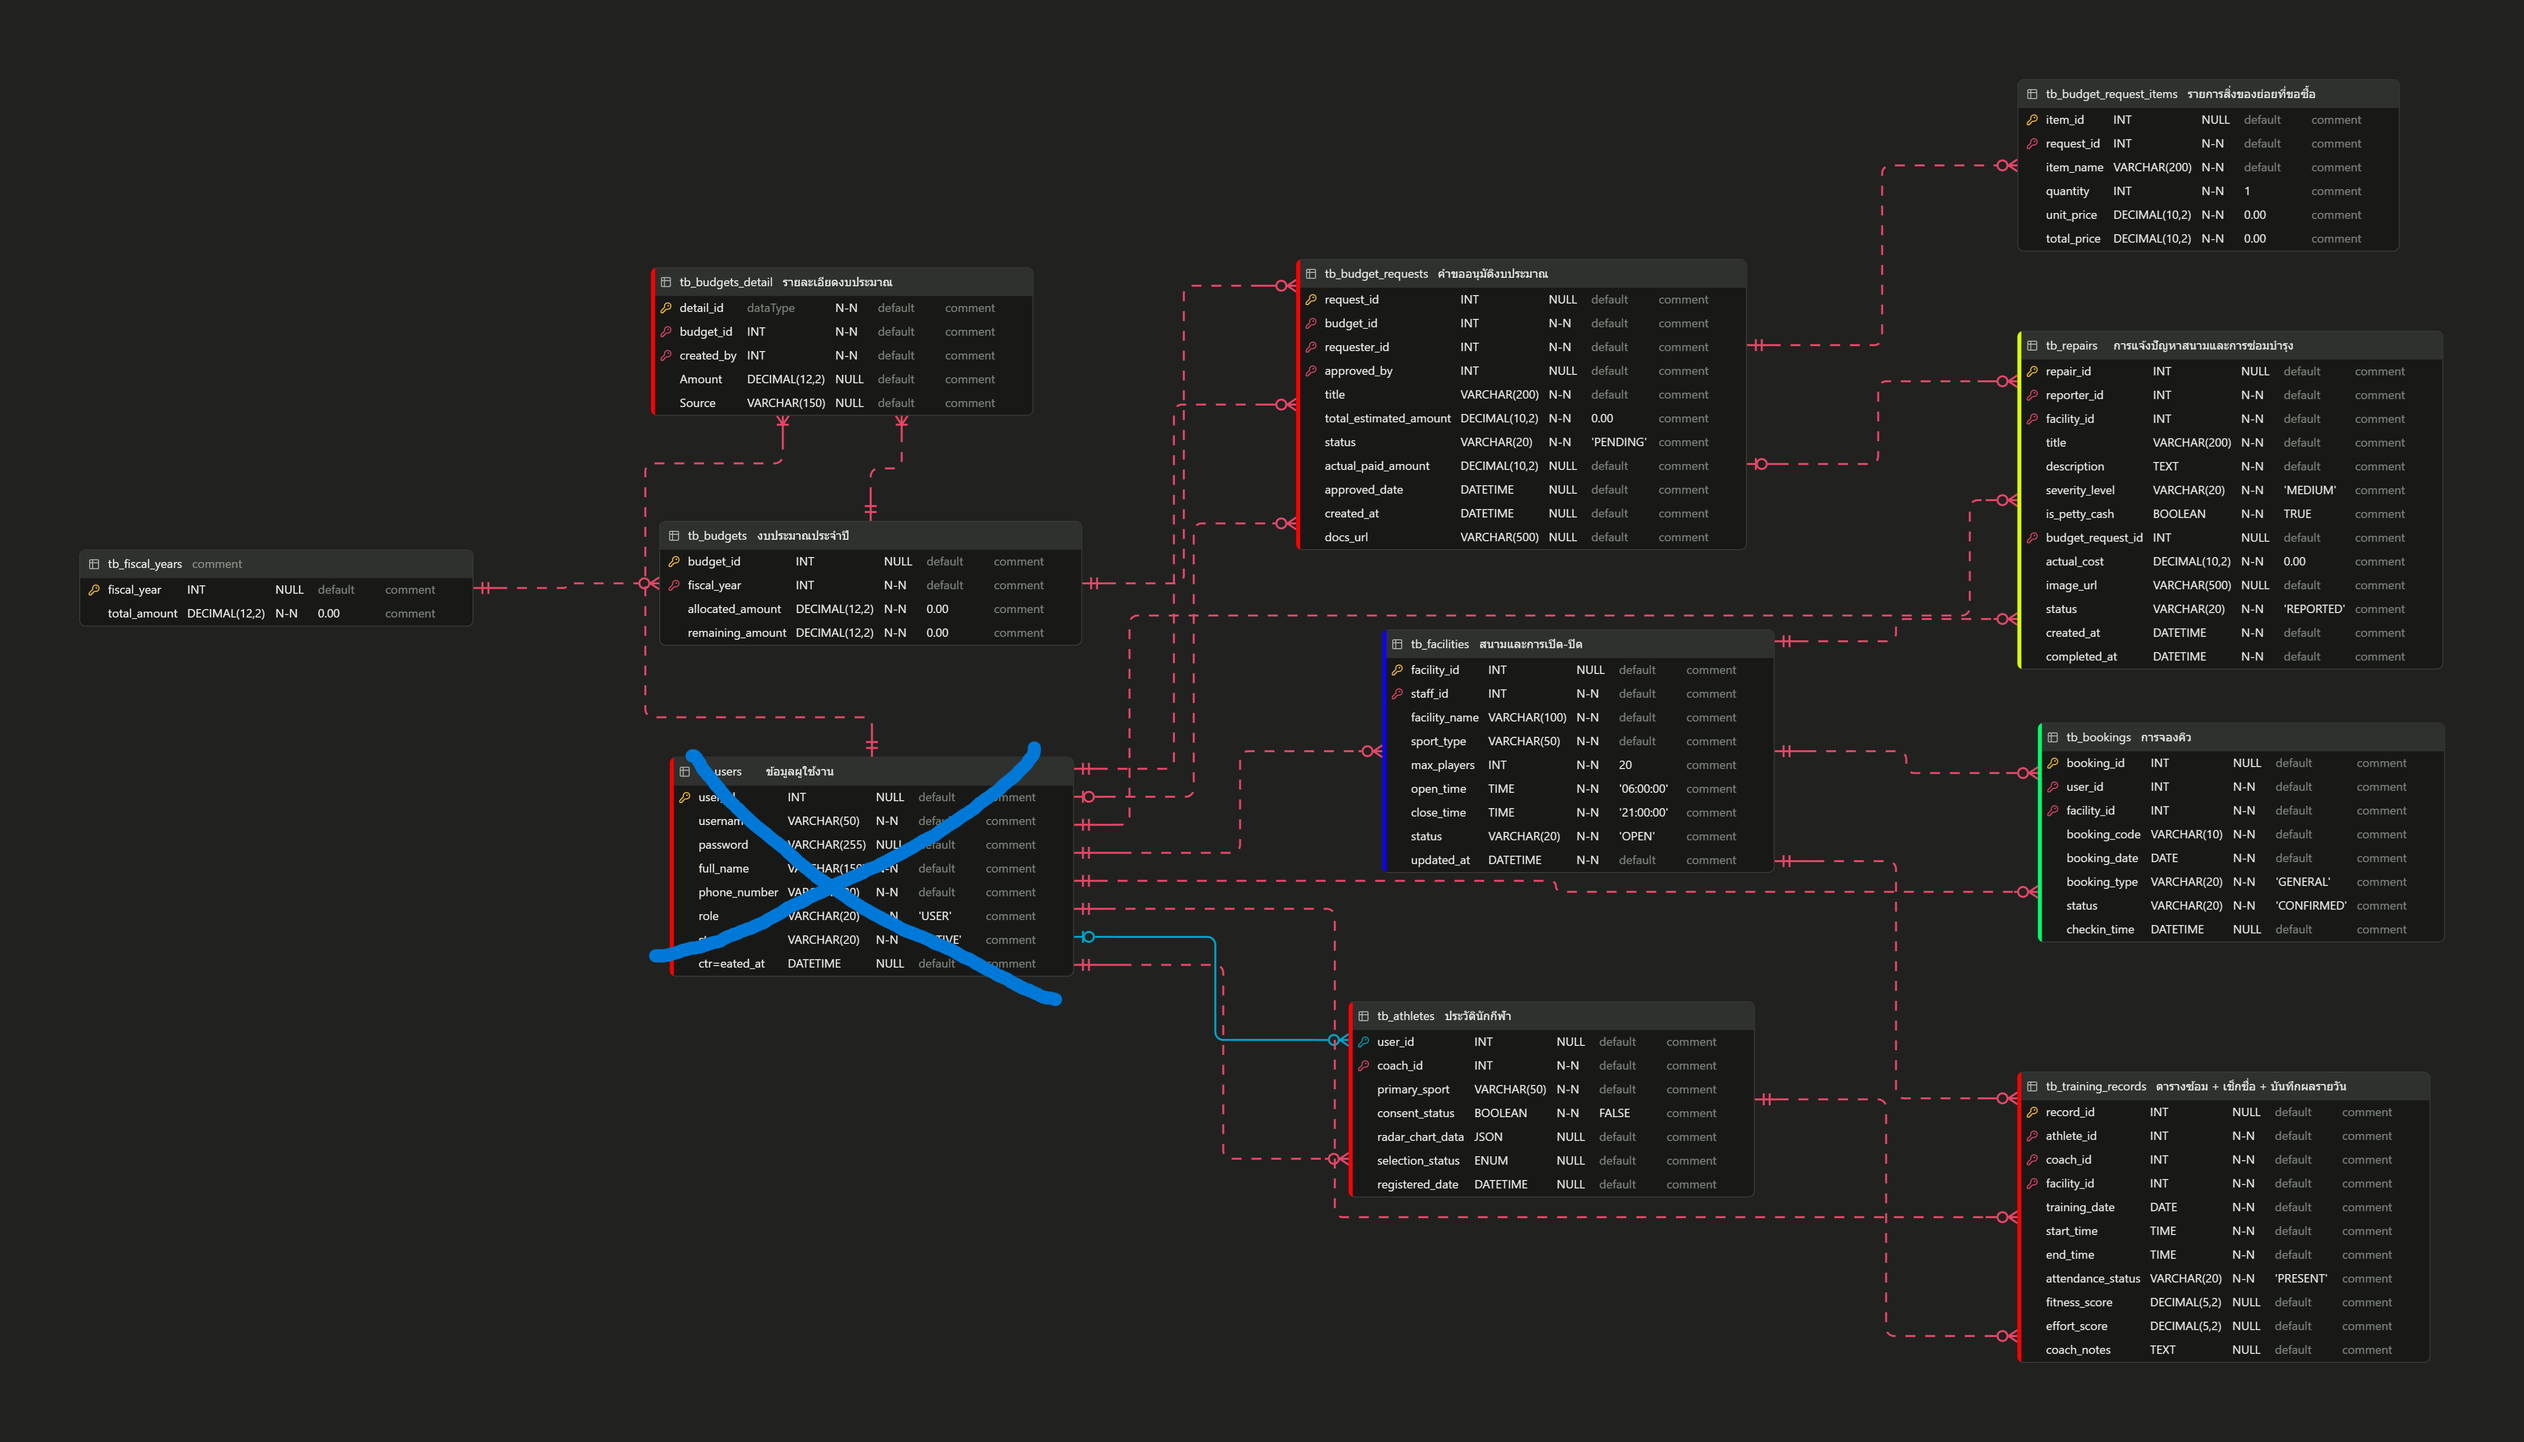
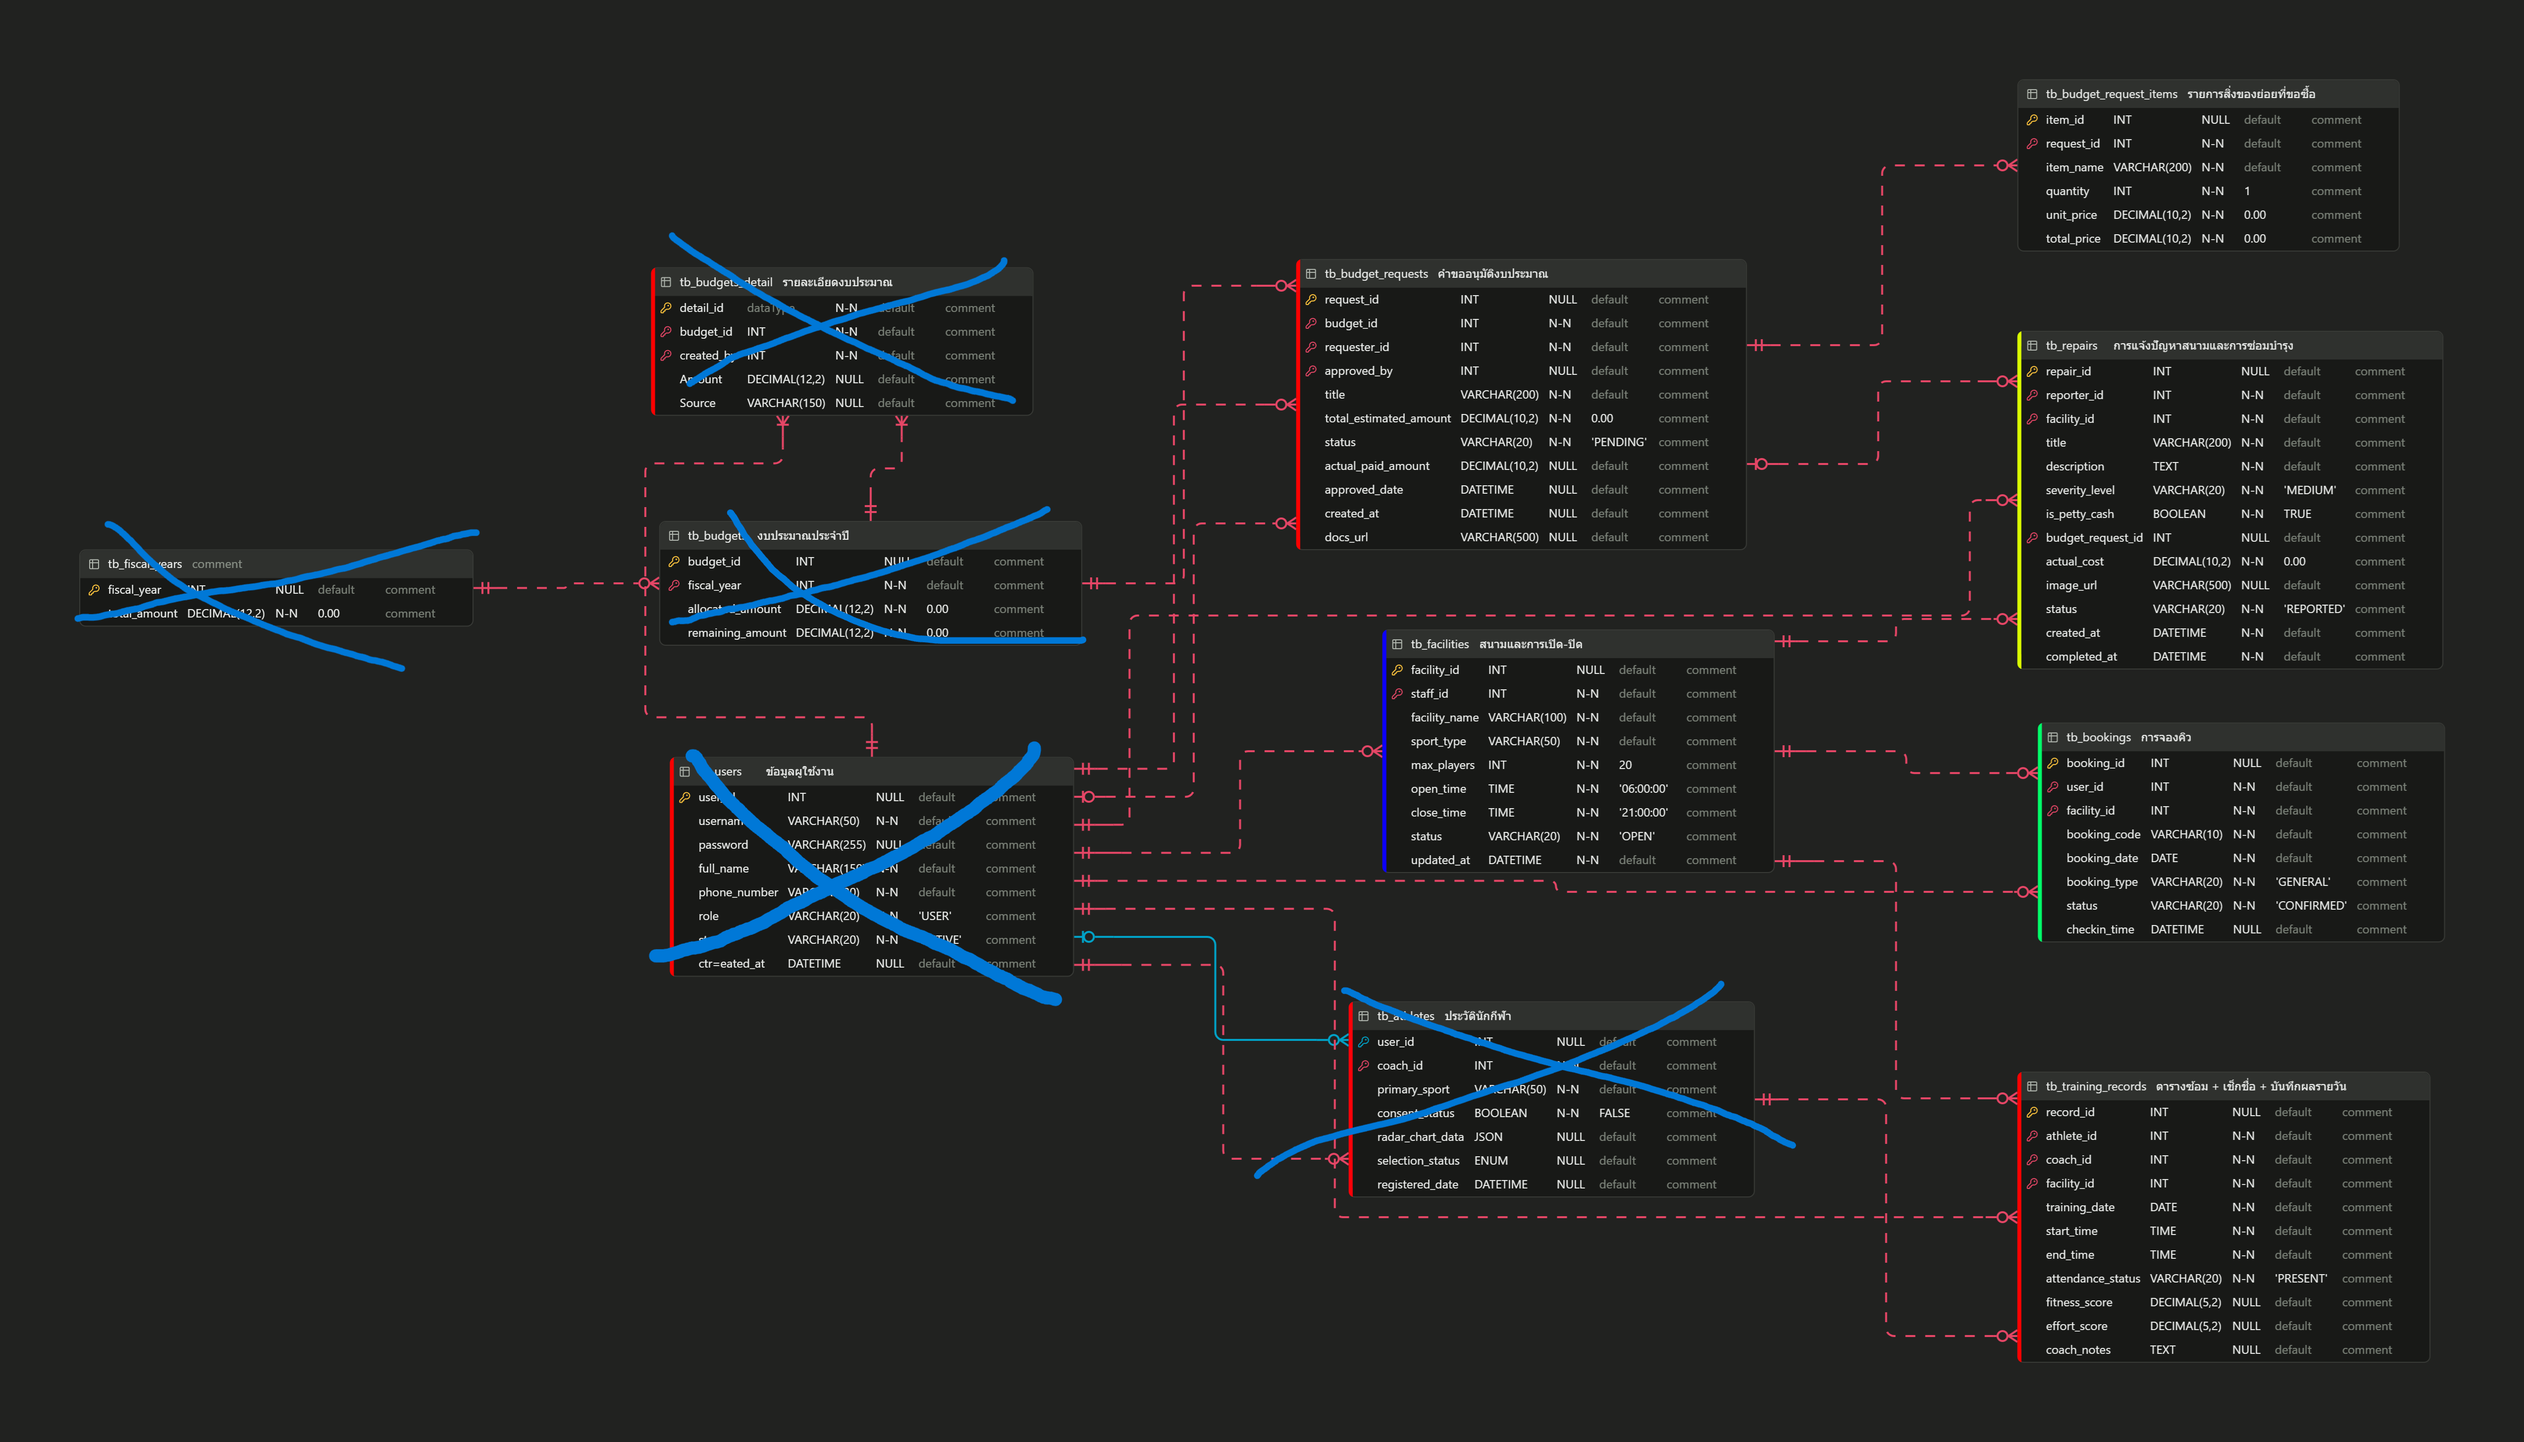
feat: add database schemas and types for athletes and budgets

diff --git a/db/schema/budgets.ts b/db/schema/budgets.ts
@@ -1,11 +1,34 @@
-import{mysqlTable,int} from "drizzle-orm/mysql-core";
+
+import { mysqlTable, int, varchar, decimal } from "drizzle-orm/mysql-core";
+import { tb_users } from "./users";
 
 
 
 
-export const tb_budgets = mysqlTable("tb_budgets",{
-    budget_id:int().primaryKey().autoincrement(),
-    allocated_amount:int().default(0),
-    remaining_amout:int().default(0),
-    
+export const tb_fiscal_years = mysqlTable("tb_fiscal_years", {
+    fiscal_id: int().primaryKey().autoincrement(),
+    years: varchar({ length: 4 })
+})
+
+
+export const tb_budgets = mysqlTable("tb_budgets", {
+    budget_id: int().primaryKey().autoincrement(),
+    fiscal_id: int().notNull().references(() => tb_fiscal_years.fiscal_id, {
+        onDelete: "cascade",
+        onUpdate: "cascade",
+    }),
+    allocated_amount: decimal({ precision: 12, scale: 2, mode: "number" }).default(0).notNull(),
+    remaining_amout: decimal({ precision: 12, scale: 2, mode: "number" }).default(0).notNull(),
+
+})
+
+
+export const tb_budgets_detail = mysqlTable("tb_budgets_detail", {
+    detail_id: int().primaryKey().autoincrement(),
+    budget_id: int().notNull().references(() => tb_budgets.budget_id, {
+        onDelete: "cascade"
+    }),
+    create_by: varchar({ length: 36 }).notNull().references(() => tb_users.user_id, { onDelete: "restrict" }),
+    Amount: decimal({ precision: 12, scale: 2, mode: "number" }).default(0).notNull(),
+    Source: varchar({ length: 255 }),
 })

diff --git a/db/schema/athletes.ts b/db/schema/athletes.ts
@@ -1,0 +1,14 @@
+import { mysqlTable ,varchar,json, boolean,timestamp} from "drizzle-orm/mysql-core";
+import { tb_users } from "./users";
+import{RadarChartData} from "@/types/athetes"
+
+
+export const tb_athletes = mysqlTable("tb_athletes",{
+    user_id:varchar({length:36}).notNull().references(()=>tb_users.user_id,{onDelete:"cascade"}),
+    coach_id:varchar({length:36}).notNull().references(()=>tb_users.user_id,{onDelete:"cascade"}),
+    primary_sport:varchar({length:(50)}).notNull(),
+    consent_status:boolean().default(false).notNull(),
+    radar_chart_data: json().$type<RadarChartData>(),
+    selection_status:boolean().default(false).notNull(),
+    registered_date:timestamp(),
+})

diff --git a/drizzle.config.ts b/drizzle.config.ts
@@ -3,7 +3,7 @@ import { defineConfig } from 'drizzle-kit';
 
 export default defineConfig({
   out: './drizzle',
-  schema: './src/db/schema',
+  schema: './db/schema',
   dialect: 'mysql',
   dbCredentials: {
     url: process.env.DATABASE_URL!,

diff --git a/types/athetes.ts b/types/athetes.ts
@@ -1,0 +1,7 @@
+export type RadarChartData = {
+  speed: number;
+  strength: number;
+  stamina: number;
+  agility: number;
+  technique: number;
+};
